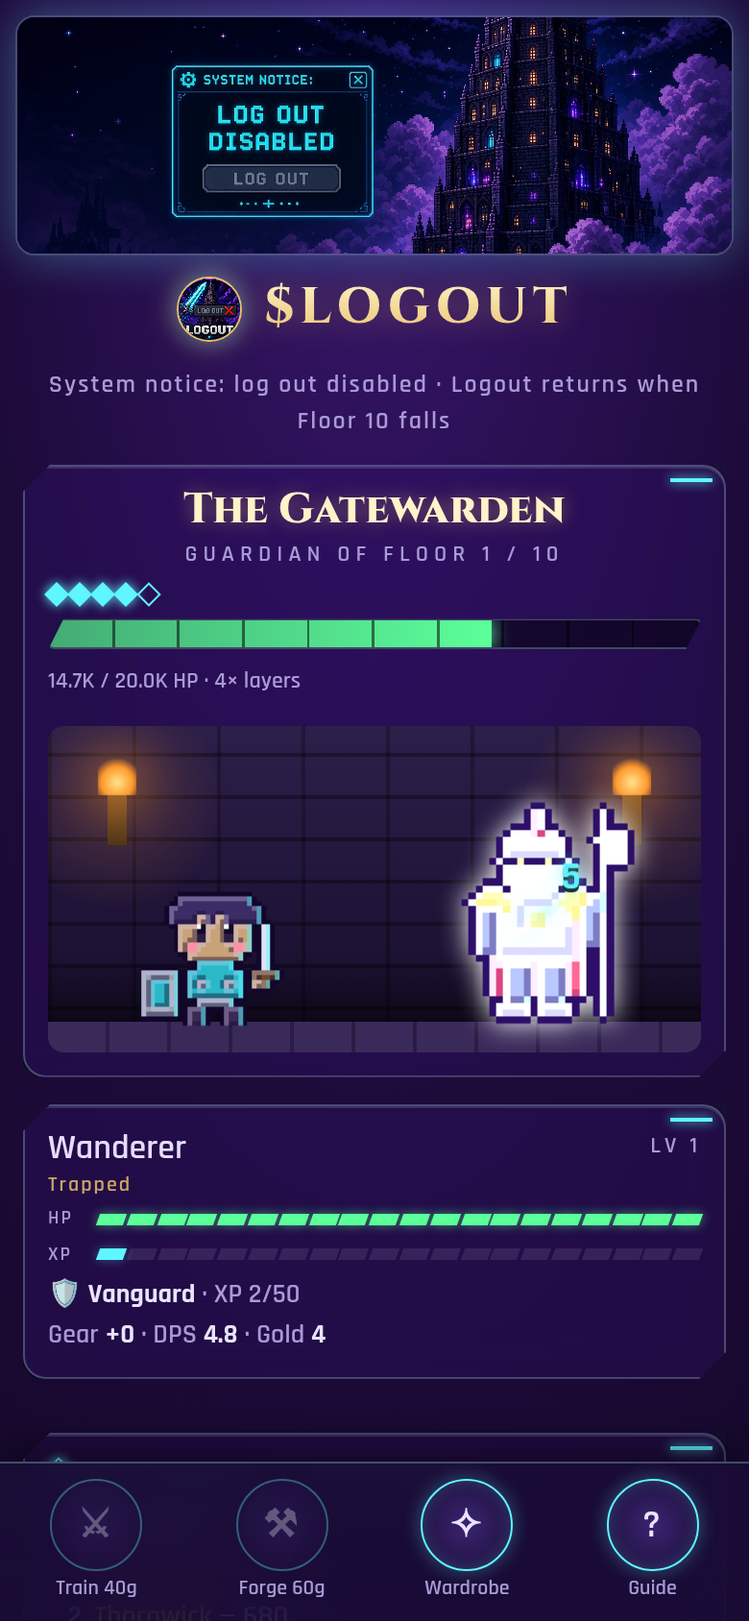
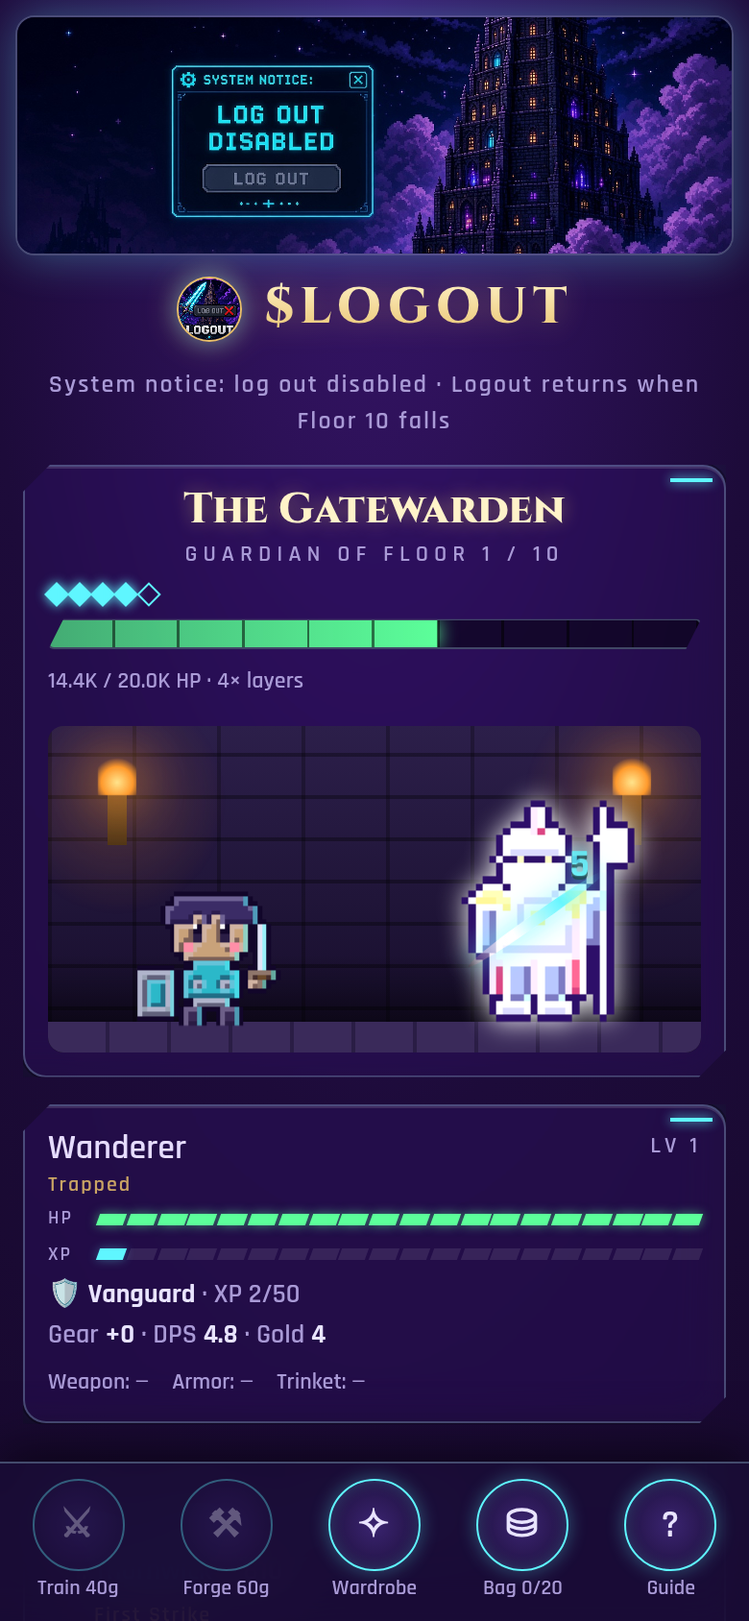
Loot: seeded boss drops (gear in 3 slots, 5 rarities, affixes, element tags), bag with compare/equip/salvage, 8 rare element cosmetics + aura slot, save v3

diff --git a/js/main.js b/js/main.js
@@ -1,13 +1,15 @@
-import { CLASSES, newHero, heroDps, levelCost, gearCost, computeProgress, accrue, applyXp, bossName, fmt, fmtDur, xpToNext } from './game.js';
+import { CLASSES, newHero, heroDps, levelCost, gearCost, computeProgress, accrue, applyXp, offlineCap, bossName, fmt, fmtDur, xpToNext } from './game.js';
 import { makeBackend } from './storage.js';
+import { grantDrops, equipItem, salvageItem, salvageValue, rarityOf, statLabel, INV_SIZE, GEAR_SLOTS } from './loot.js';
 import { OFFLINE_CAP_HOURS, MAX_FLOOR } from '../config.js';
 import { bossSprite, bossIsBig, heroSprite } from './sprites.js';
 import { SLOTS, CREATION_SLOTS, itemsFor, isUnlocked, unlockText, defaultLook, migrateSave, recordClear, equip, titleOf, nameColorOf, fakeProfile, byId, SAVE_VERSION } from './cosmetics.js';
 const $ = id => document.getElementById(id);
 const esc = s => String(s).replace(/[&<>"']/g, c => `&#${c.charCodeAt(0)};`);
+let lootLines = [];
 let be, save, floor, pending = 0, recent = { dmg: 0, gold: 0, xp: 0 }, quietSync = true, cls = 'Vanguard', draftLook = defaultLook('Vanguard'), toastT;
-const log = m => { const d = document.createElement('div'); d.textContent = m; if (m.startsWith('System notice')) d.className = 'rune'; $('log').prepend(d); };
-function notice(m) { const n = document.createElement('div'); n.className = 'notice'; n.innerHTML = `<small>◈ System notice</small>${esc(m)}`; $('notices').append(n); setTimeout(() => n.remove(), 3200); }
+const log = (m, color) => { const d = document.createElement('div'); d.textContent = m; if (m.startsWith('System notice')) d.className = 'rune'; if (color) { d.style.color = color; d.className = 'loot'; } $('log').prepend(d); };
+function notice(m, color) { const n = document.createElement('div'); n.className = 'notice'; if (color) n.style.borderColor = color; n.innerHTML = `<small>◈ System notice</small><span${color ? ` style="color:${color}"` : ''}>${esc(m)}</span>`; $('notices').append(n); setTimeout(() => n.remove(), 3200); }
 function floorCleared(f) { $('clearedSub').textContent = `${bossName(f)} has fallen`; const c = $('cleared'); c.classList.remove('show'); void c.offsetWidth; c.classList.add('show'); }
 const LAYERS = 5;
 const hpColor = pct => pct > 0.5 ? '#5cff9a' : pct > 0.2 ? '#ffd84f' : '#ff3355';
@@ -18,8 +20,8 @@ function hitFx(dmg, mine = true) {
   const s = document.createElement('i'); s.className = 'slash'; s.style.left = (x - 60) + 'px'; s.style.top = y + 'px';
   fx.append(d, s); setTimeout(() => { d.remove(); s.remove(); }, 1000);
 }
-const SLOT_LABEL = { skin: 'Skin', hairColor: 'Hair colour', hairStyle: 'Hair style', outfitColor: 'Outfit colour', outfitStyle: 'Outfit style', trim: 'Armor trim', weapon: 'Weapon', weaponColor: 'Weapon finish', title: 'Title', nameColor: 'Name colour' };
-const COLOR_SLOTS = ['skin', 'hairColor', 'outfitColor', 'trim', 'weaponColor', 'nameColor'];
+const SLOT_LABEL = { skin: 'Skin', hairColor: 'Hair colour', hairStyle: 'Hair style', outfitColor: 'Outfit colour', outfitStyle: 'Outfit style', trim: 'Armor trim', weapon: 'Weapon', weaponColor: 'Weapon finish', aura: 'Aura', title: 'Title', nameColor: 'Name colour' };
+const COLOR_SLOTS = ['skin', 'hairColor', 'outfitColor', 'trim', 'weaponColor', 'nameColor', 'aura'];
 const toast = m => notice(m.replace(/^System notice: /, ''));
 
 function picker(el, slots, look, heroCls, progress, onPick) {
@@ -34,11 +36,11 @@ async function boot() {
   $('maxf').textContent = MAX_FLOOR;
   be = await makeBackend(); save = migrateSave(await be.loadSave());
   if (!save) return showCreate();
-  const p = computeProgress(save.heroes, save.lastTick, Date.now(), OFFLINE_CAP_HOURS);
+  const cap = offlineCap(save.heroes, OFFLINE_CAP_HOURS), p = computeProgress(save.heroes, save.lastTick, Date.now(), cap);
   if (p.secs > 30) {
     save.gold += p.gold; const ups = applyXp(save.heroes, p.xp); const r = await be.submitDamage(save.heroes[0].name, p.damage);
-    const got = handleClears(r.clears, true);
-    $('awaytxt').innerHTML = `Log out disabled. You fought on for ${fmtDur(p.secs)}${p.capped ? ` (capped at ${OFFLINE_CAP_HOURS}h)` : ''}<br>Damage: ${fmt(p.damage)}<br>Gold: +${fmt(p.gold)}<br>XP: +${fmt(p.xp)}${ups.length ? `<br>Level ups: ${ups.length}` : ''}${r.advanced ? `<br>Floors cleared: ${r.advanced}. Floor ${r.floor} is open.` : ''}${got.length ? `<br>Cosmetics unlocked: ${got.map(i => esc(i.label)).join(', ')}` : ''}`;
+    lootLines = []; const got = handleClears(r.clears, true);
+    $('awaytxt').innerHTML = `Log out disabled. You fought on for ${fmtDur(p.secs)}${p.capped ? ` (capped at ${cap}h)` : ''}<br>Damage: ${fmt(p.damage)}<br>Gold: +${fmt(p.gold)}<br>XP: +${fmt(p.xp)}${ups.length ? `<br>Level ups: ${ups.length}` : ''}${r.advanced ? `<br>Floors cleared: ${r.advanced}. Floor ${r.floor} is open.` : ''}${got.length ? `<br>Cosmetics unlocked: ${got.map(i => esc(i.label)).join(', ')}` : ''}${lootLines.length ? `<br>Loot: ${lootLines.join(', ')}` : ''}`;
     $('away').showModal();
   }
   save.lastTick = Date.now(); await be.saveSave(save); startGame();
@@ -51,7 +53,7 @@ function showCreate() {
   picker($('cpick'), CREATION_SLOTS, draftLook, cls, { cleared: [], top3: [], rank1: 0 }, id => { draftLook[byId(id).type] = id; showCreate(); });
   $('start').onclick = async () => {
     const h = newHero($('hname').value.trim(), cls); h.look = { ...draftLook };
-    save = { version: SAVE_VERSION, heroes: [h], gold: 0, lastTick: Date.now(), progress: { cleared: [], top3: [], rank1: 0 } };
+    save = migrateSave({ version: 2, heroes: [h], gold: 0, lastTick: Date.now(), progress: { cleared: [], top3: [], rank1: 0 } }); // fills v3 fields
     await be.saveSave(save); $('create').classList.add('hidden'); startGame(true);
   };
 }
@@ -60,6 +62,10 @@ function handleClears(clears = [], quiet = false) {
   for (const c of clears) {
     const got = recordClear(save, c.floor, c.ranking.indexOf(me) + 1, c.maxHp ? (c.dmg?.[me] || 0) / c.maxHp : 1); all.push(...got);
     for (const it of got) { log(`System notice: cosmetic unlocked — ${it.label}.`); if (!quiet) notice(`Cosmetic unlocked — ${it.label}`); }
+    const share = c.maxHp ? (c.dmg?.[me] || 0) / c.maxHp : 0, d = grantDrops(save, c.floor, share);
+    for (const it of d.items) { const R = rarityOf(it.rarity); log(`Loot · ${R.label} ${it.name} (Floor ${c.floor})`, R.color); lootLines.push(`<span style="color:${R.color}">${esc(R.label)} ${esc(it.name)}</span>`); if (!quiet) notice(`${R.label} drop — ${it.name}`, R.color); }
+    if (d.salvaged) log(`Bag full: a drop was salvaged for ${fmt(d.salvaged)} gold.`);
+    if (d.cosmetic) { const it = byId(d.cosmetic); log(`System notice: rare cosmetic drop — ${it.label}!`, '#ffb02e'); lootLines.push(`<span style="color:#ffb02e">${esc(it.label)} (cosmetic)</span>`); all.push(it); if (!quiet) notice(`Rare cosmetic — ${it.label}`, '#ffb02e'); }
   }
   return all;
 }
@@ -75,7 +81,7 @@ async function startGame(fresh = false) {
   floor = await be.getFloor(); log(`${save.heroes[0].name} awoke on Floor ${floor.floor}. The guardian stirs.`); log('System notice: log out disabled.');
   if (fresh) { notice('Log out disabled'); setTimeout(() => notice(`Floor ${floor.floor} is open`), 900); } // no replayed notices on reload
   $('lvl').onclick = () => buy('level'); $('gear').onclick = () => buy('gear'); $('wardrobeBtn').onclick = openWardrobe;
-  $('helpBtn').onclick = () => tourShow(0); placeDock();
+  $('helpBtn').onclick = () => tourShow(0); $('bagBtn').onclick = openBag; placeDock();
   setInterval(tick, 1000); setInterval(sync, 5000); render(); renderLb();
   if (!save.tutorialSeen) setTimeout(startTour, fresh ? 1600 : 400);
 }
@@ -99,7 +105,7 @@ function buy(kind) {
 }
 function render() {
   const h = save.heroes[0];
-  $('hero').style.backgroundImage = heroSprite(h.look, h.cls); $('boss').style.backgroundImage = bossSprite(floor.floor); $('boss').classList.toggle('big', bossIsBig(floor.floor));
+  $('hero').style.backgroundImage = heroSprite(h.look, h.cls); const au = byId(h.look.aura || 'au-none')?.value; $('hero').style.filter = au ? `drop-shadow(0 0 1.5px ${au}) drop-shadow(0 0 3px ${au})` : ''; $('boss').style.backgroundImage = bossSprite(floor.floor); $('boss').classList.toggle('big', bossIsBig(floor.floor));
   const won = floor.floor >= MAX_FLOOR && floor.hp <= 0;
   $('bname').textContent = won ? 'Log out enabled' : bossName(floor.floor);
   $('floor').textContent = won ? 'System notice · the tower is silent' : `Guardian of Floor ${floor.floor} / ${MAX_FLOOR}`;
@@ -112,6 +118,8 @@ function render() {
   const xp = h.xp / xpToNext(h.level); $('hxp').innerHTML = Array.from({ length: 20 }, (_, i) => `<i class="${i / 20 < xp ? '' : 'off'}"></i>`).join('');
   $('stats').innerHTML = `${CLASSES[h.cls].icon} <b>${h.cls}</b> · XP ${h.xp}/${xpToNext(h.level)}<br>Gear <b>+${h.gear}</b> · DPS <b>${heroDps(h).toFixed(1)}</b> · Gold <b>${fmt(save.gold)}</b>`;
   $('lvlL').textContent = `Train ${fmt(levelCost(h))}g`; $('lvl').title = `Train: +1 level for ${fmt(levelCost(h))} gold`; $('lvl').disabled = save.gold < levelCost(h);
+  $('equipped').innerHTML = GEAR_SLOTS.map(s => { const it = h.equip?.[s]; return `<span class="eq" style="${it ? `color:${rarityOf(it.rarity).color}` : ''}">${s[0].toUpperCase() + s.slice(1)}: ${it ? esc(it.name) : '—'}</span>`; }).join('');
+  $('bagL').textContent = `Bag ${save.inv.length}/${INV_SIZE}`; $('gear').title = 'Forge: temper your weapon, +15% damage per tier';
   $('gearL').textContent = `Forge ${fmt(gearCost(h))}g`; $('gear').disabled = save.gold < gearCost(h);
 }
 async function renderLb() {
@@ -121,6 +129,28 @@ async function renderLb() {
     return `<li class="${me ? 'me' : ''}" value="${r.rank}"><span style="color:${pr.color}">${esc(r.name)}</span> — ${fmt(r.damage)}<br><span class="ttl">${esc(pr.title)}</span></li>`;
   }).join('');
 }
+// ---- Bag: inventory grid, compare panel, equip and salvage
+let bagSel = -1;
+const itemCard = (it, cls = '') => { const R = rarityOf(it.rarity); return `<div class="item ${cls}" style="--rc:${R.color}"><b style="color:${R.color}">${esc(it.name)}</b><small>${R.label} · ${it.slot} · Floor ${it.floor} · ${it.element}</small>${Object.entries(it.stats).map(([k, v]) => `<div>${statLabel(k, v)}</div>`).join('')}</div>`; };
+function openBag() {
+  const h = save.heroes[0];
+  $('bagCount').textContent = `· ${save.inv.length} / ${INV_SIZE}`;
+  $('eqrow').innerHTML = GEAR_SLOTS.map(s => { const it = h.equip[s]; return `<div class="eqslot" title="${s}">${it ? itemCard(it, 'mini') : `<div class="item mini empty">${s}: empty</div>`}</div>`; }).join('');
+  $('bagGrid').innerHTML = Array.from({ length: INV_SIZE }, (_, i) => { const it = save.inv[i]; if (!it) return '<button class="cell" disabled aria-label="empty slot"></button>';
+    const R = rarityOf(it.rarity); return `<button class="cell ${i === bagSel ? 'sel' : ''}" data-i="${i}" style="--rc:${R.color}" title="${esc(R.label + ' ' + it.name)}">${{ weapon: '⚔', armor: '⛨', trinket: '◈' }[it.slot]}</button>`; }).join('');
+  $('bagGrid').onclick = e => { const b = e.target.closest('button.cell[data-i]'); if (b) { bagSel = +b.dataset.i; openBag(); } };
+  const it = save.inv[bagSel];
+  if (it) {
+    const cur = h.equip[it.slot], before = heroDps(h), trial = { ...h, equip: { ...h.equip, [it.slot]: it } }, delta = heroDps(trial) - before;
+    $('bagDetail').innerHTML = `${itemCard(it)}<div class="vs">vs equipped</div>${cur ? itemCard(cur, 'mini') : '<div class="item mini empty">nothing equipped</div>'}
+      <p class="delta" style="color:${delta >= 0 ? '#5cff8a' : '#ff3355'}">DPS ${delta >= 0 ? '+' : ''}${delta.toFixed(1)} (${before.toFixed(1)} → ${(before + delta).toFixed(1)})</p>${['goldPct', 'xpPct', 'capH'].map(k => { const d = (it.stats[k] || 0) - (cur?.stats[k] || 0); return d ? `<div style="color:${d > 0 ? '#5cff8a' : '#ff3355'}">${k === 'capH' ? 'Offline cap' : k === 'goldPct' ? 'Gold' : 'XP'} ${d > 0 ? '+' : ''}${d}${k === 'capH' ? 'h' : '%'}</div>` : ''; }).join('')}
+      <div class="bagbtns"><button id="bEquip" class="cta">Equip</button><button id="bSalv">Salvage · ${fmt(salvageValue(it))}g</button></div>`;
+    $('bEquip').onclick = async () => { equipItem(save, bagSel); log(`Equipped ${it.name}.`, rarityOf(it.rarity).color); bagSel = -1; await be.saveSave(save); render(); openBag(); };
+    $('bSalv').onclick = async () => { const g = salvageItem(save, bagSel); log(`Salvaged ${it.name} for ${fmt(g)} gold.`); bagSel = -1; await be.saveSave(save); render(); openBag(); };
+  } else $('bagDetail').innerHTML = '<p class="sub">Select an item to compare it with what you have equipped.</p>';
+  if (!$('bag').open) $('bag').showModal();
+}
+
 // ---- intro walkthrough (System notice voice). Seen flag lives in the save; the ? button reopens it.
 const TOUR = [
   { t: 'You fight on your own', x: 'Your hero attacks the floor guardian automatically, every second, even while you are offline. Close the tab; the tower keeps count.', el: () => $('arena') },

diff --git a/js/loot.js b/js/loot.js
@@ -1,0 +1,66 @@
+// Loot: seeded, reproducible boss drops (stat gear + rare element cosmetics), inventory, equip and salvage. Pure (no DOM, no Math.random).
+import { rng, baseHp, isUniqueSlot, bossInfo } from './floors.js';
+import { DROP_COSMETICS } from './cosmetics.js';
+export const INV_SIZE = 20;
+export const GEAR_SLOTS = ['weapon', 'armor', 'trinket'];
+export const RARITIES = [
+  { id: 'common', label: 'Common', color: '#c9c2d8', w: 60, mul: 1, affixes: 0 },
+  { id: 'uncommon', label: 'Uncommon', color: '#5cff8a', w: 25, mul: 1.3, affixes: 1 },
+  { id: 'rare', label: 'Rare', color: '#4fa8ff', w: 10, mul: 1.7, affixes: 1 },
+  { id: 'epic', label: 'Epic', color: '#c26bff', w: 4, mul: 2.2, affixes: 2 },
+  { id: 'legendary', label: 'Legendary', color: '#ffb02e', w: 1, mul: 3, affixes: 2 },
+];
+export const rarityOf = id => RARITIES.find(r => r.id === id);
+/** Rarity weights; unique/milestone floors double every non-common weight. */
+export const rarityWeights = floor => RARITIES.map((r, i) => r.w * (i > 0 && isUniqueSlot(floor) ? 2 : 1));
+export const COSMETIC_CHANCE = { normal: 0.03, unique: 0.05 };
+/** Chance of a gear drop for one kill, by damage share (0 share = no loot). */
+export const gearChance = (share, floor) => share <= 0 ? 0 : Math.min(1, 0.3 + share * 5 + (isUniqueSlot(floor) ? 0.3 : 0));
+const scale = f => Math.pow(baseHp(f) / baseHp(1), 0.6); // gear power grows slower than boss HP
+const ELEMENT_WORD = { fire: 'Ember', frost: 'Frost', void: 'Void', storm: 'Storm', venom: 'Venom', holy: 'Hallowed', blood: 'Blood', shadow: 'Shadow' };
+const NOUNS = { weapon: ['Blade', 'Edge', 'Glaive', 'Fang', 'Brand'], armor: ['Mail', 'Aegis', 'Cuirass', 'Mantle', 'Plate'], trinket: ['Charm', 'Sigil', 'Locket', 'Talisman', 'Band'] };
+const AFFIXES = [
+  { k: 'dpsPct', label: v => `+${v}% DPS`, roll: (r, m) => Math.round((2 + r() * 4) * m) },
+  { k: 'goldPct', label: v => `+${v}% gold`, roll: (r, m) => Math.round((3 + r() * 5) * m) },
+  { k: 'xpPct', label: v => `+${v}% XP`, roll: (r, m) => Math.round((3 + r() * 5) * m) },
+  { k: 'capH', label: v => `+${v}h offline cap`, roll: (r, m) => Math.max(1, Math.round((0.5 + r()) * m)) },
+];
+export const statLabel = (k, v) => ({ dps: `+${v} DPS`, dpsPct: `+${v}% DPS`, goldPct: `+${v}% gold`, xpPct: `+${v}% XP`, capH: `+${v}h offline cap` })[k];
+const weighted = (r, ws) => { let x = r() * ws.reduce((a, b) => a + b, 0); for (let i = 0; i < ws.length; i++) if ((x -= ws[i]) < 0) return i; return ws.length - 1; };
+/** Roll one gear piece from a seeded rng. */
+export function rollItem(r, floor, element, seq = 0) {
+  const ri = weighted(r, rarityWeights(floor)), R = RARITIES[ri], slot = GEAR_SLOTS[Math.floor(r() * 3)], s = scale(floor);
+  const stats = {};
+  if (slot === 'weapon') stats.dps = +(1.5 * s * R.mul).toFixed(1);
+  if (slot === 'armor') stats.dpsPct = Math.round((3 + floor / 8) * R.mul);
+  if (slot === 'trinket') { stats.goldPct = Math.round((3 + floor / 12) * R.mul); stats.xpPct = stats.goldPct; }
+  const pool = AFFIXES.map(a => a.k), picked = [];
+  for (let i = 0; i < R.affixes; i++) { const k = pool.splice(Math.floor(r() * pool.length), 1)[0], a = AFFIXES.find(x => x.k === k), v = a.roll(r, R.mul); stats[k] = (stats[k] || 0) + v; picked.push(k); }
+  const name = `${ELEMENT_WORD[element] || 'Tower'} ${pick(r, NOUNS[slot])}`;
+  return { id: `i${floor}-${seq}-${ri}${slot[0]}`, slot, rarity: R.id, floor, element, name, stats, affixes: picked };
+}
+const pick = (r, a) => a[Math.floor(r() * a.length)];
+const hash = s => { let h = 2166136261; for (const c of String(s)) h = Math.imul(h ^ c.charCodeAt(0), 16777619); return h >>> 0; };
+/** Seeded drops for one boss kill. Same (heroId, floor, seq, share) always gives the same result. */
+export function rollDrops({ heroId = 'hero', floor, share, seq = 0, owned = [] }) {
+  const r = rng(hash(`${heroId}|${floor}|${seq}`)), element = bossInfo(floor).lootElement, uniq = isUniqueSlot(floor), items = [];
+  const rolls = uniq ? 2 : 1;
+  for (let i = 0; i < rolls; i++) if (r() < gearChance(share, floor)) items.push(rollItem(r, floor, element, `${seq}.${i}`));
+  let cosmetic = null;
+  if (share > 0 && r() < (uniq ? COSMETIC_CHANCE.unique : COSMETIC_CHANCE.normal)) { const c = DROP_COSMETICS.find(x => x.unlock.drop === element); if (c && !owned.includes(c.id)) cosmetic = c.id; }
+  return { items, cosmetic, element };
+}
+export const salvageValue = it => Math.round(20 * Math.pow(RARITIES.findIndex(r => r.id === it.rarity) + 1, 2) * scale(it.floor));
+/** Apply one kill's drops to a v3 save. Returns { items, cosmetic, salvaged } (salvaged = auto-salvaged gold when the bag is full). */
+export function grantDrops(save, floor, share) {
+  const h = save.heroes[0], d = rollDrops({ heroId: h.id, floor, share, seq: save.lootSeq++, owned: save.progress.drops });
+  let salvaged = 0;
+  for (const it of d.items) { if (save.inv.length < INV_SIZE) save.inv.push(it); else { const g = salvageValue(it); save.gold += g; salvaged += g; } }
+  if (d.cosmetic) save.progress.drops.push(d.cosmetic);
+  return { ...d, salvaged };
+}
+export function equipItem(save, invIndex) {
+  const h = save.heroes[0], it = save.inv[invIndex]; if (!it) return false;
+  const old = h.equip[it.slot]; h.equip[it.slot] = it; save.inv.splice(invIndex, 1); if (old) save.inv.push(old); return true;
+}
+export function salvageItem(save, invIndex) { const it = save.inv[invIndex]; if (!it) return 0; save.inv.splice(invIndex, 1); const g = salvageValue(it); save.gold += g; return g; }

diff --git a/js/cosmetics.js b/js/cosmetics.js
@@ -1,5 +1,5 @@
 // Cosmetics: catalog, unlock rules, save migration, layered sprite grids. Pure (no DOM). No stat effects.
-export const SAVE_VERSION = 2;
+export const SAVE_VERSION = 3;
 const I = (id, type, label, value, unlock = null, extra = {}) => ({ id, type, label, value, unlock, ...extra });
 export const CATALOG = [
   // skin tones
@@ -35,8 +35,16 @@ export const CATALOG = [
   I('nc-white', 'nameColor', 'Plain', '#e6dcff'), I('nc-cyan', 'nameColor', 'Cyan', '#3ff7ff'),
   I('nc-gold', 'nameColor', 'Choir Gold', '#ffd84f', { floor: 8 }), I('nc-exit', 'nameColor', 'Exit Green', '#5cff8a', { floor: 10 }),
   I('nc-pink', 'nameColor', 'Blood Pink', '#ff4fd8', { top3: 3 }),
+  // aura (rendered as a soft glow around the hero)
+  I('au-none', 'aura', 'None', ''),
+  // rare element-themed boss drops (2-5%)
+  I('oc-ember', 'outfitColor', 'Ember Weave', '#e0502a', { drop: 'fire' }), I('au-frost', 'aura', 'Frost Aura', '#9fd8ff', { drop: 'frost' }),
+  I('wc-voidshard', 'weaponColor', 'Voidshard', '#b06cff', { drop: 'void' }), I('hc-storm', 'hairColor', 'Stormlit', '#cfe0ff', { drop: 'storm' }),
+  I('tr-venom', 'trim', 'Venom Gilt', '#8ae04a', { drop: 'venom' }), I('au-holy', 'aura', 'Hallowed Aura', '#fff3a0', { drop: 'holy' }),
+  I('au-blood', 'aura', 'Blood Aura', '#ff3355', { drop: 'blood' }), I('nc-shadow', 'nameColor', 'Shadowglass', '#a8a0c8', { drop: 'shadow' }),
 ];
-export const SLOTS = ['skin', 'hairColor', 'hairStyle', 'outfitColor', 'outfitStyle', 'trim', 'weapon', 'weaponColor', 'title', 'nameColor'];
+export const DROP_COSMETICS = CATALOG.filter(i => i.unlock?.drop);
+export const SLOTS = ['skin', 'hairColor', 'hairStyle', 'outfitColor', 'outfitStyle', 'trim', 'weapon', 'weaponColor', 'aura', 'title', 'nameColor'];
 export const CREATION_SLOTS = ['skin', 'hairColor', 'hairStyle', 'outfitColor'];
 export const byId = id => CATALOG.find(i => i.id === id);
 export const itemsFor = (slot, cls) => CATALOG.filter(i => i.type === slot && (!i.cls || i.cls === cls));
@@ -45,12 +53,14 @@ export function unlockText(u) {
   if (u.floor) return `Clear Floor ${u.floor}`;
   if (u.top3) return u.top3 === 1 ? 'Top-3 damage on a floor kill' : `Top-3 damage on ${u.top3} floor kills`;
   if (u.rank1) return '#1 damage on a floor kill';
+  if (u.drop) return `Rare drop from ${u.drop} bosses`;
 }
 export function isUnlocked(item, progress) {
   const u = item.unlock; if (!u) return true;
   if (u.floor) return progress.cleared.includes(u.floor);
   if (u.top3) return progress.top3.length >= u.top3;
   if (u.rank1) return progress.rank1 >= u.rank1;
+  if (u.drop) return (progress.drops || []).includes(item.id);
   return false;
 }
 export const unlockedIds = progress => CATALOG.filter(i => isUnlocked(i, progress)).map(i => i.id);
@@ -66,7 +76,7 @@ export function recordClear(save, floor, rank, share = 1) {
 }
 export function defaultLook(cls) {
   const w = itemsFor('weapon', cls)[0].id;
-  return { skin: 'skin-2', hairColor: 'hc-ink', hairStyle: 'hs-short', outfitColor: 'oc-cyan', outfitStyle: 'os-tunic', trim: 'tr-steel', weapon: w, weaponColor: 'wc-steel', title: 't-trapped', nameColor: 'nc-white' };
+  return { skin: 'skin-2', hairColor: 'hc-ink', hairStyle: 'hs-short', outfitColor: 'oc-cyan', outfitStyle: 'os-tunic', trim: 'tr-steel', weapon: w, weaponColor: 'wc-steel', title: 't-trapped', nameColor: 'nc-white', aura: 'au-none' };
 }
 /** Choose an item if unlocked & valid for the class; returns true on success. */
 export function equip(save, id) {
@@ -80,6 +90,11 @@ export function migrateSave(s) {
     s.heroes.forEach(h => { h.look = { ...defaultLook(h.cls), ...(h.look || {}) }; });
     s.progress = s.progress || { cleared: [], top3: [], rank1: 0 };
     s.version = 2;
+  }
+  if (s.version < 3) { // v3: loot inventory, equipped gear, drop cosmetics, aura slot
+    s.inv = s.inv || []; s.lootSeq = s.lootSeq || 0; s.progress.drops = s.progress.drops || [];
+    s.heroes.forEach(h => { h.equip = h.equip || { weapon: null, armor: null, trinket: null }; h.look.aura = h.look.aura || 'au-none'; });
+    s.version = 3;
   }
   return s;
 }

diff --git a/index.html b/index.html
@@ -21,8 +21,8 @@
    <div id="arena"><div class="torch l"></div><div class="torch r"></div><div id="hero" class="sprite"></div><div id="boss" class="sprite boss"></div><div id="fx"></div></div>
   </div>
   <div class="row">
-   <div class="panel win"><div class="hudtop"><div id="hname2"></div><div class="lv" id="hlv"></div></div><div class="segrow"><span>HP</span><div class="seg" id="hhp"></div></div><div class="segrow"><span>XP</span><div class="seg xp" id="hxp"></div></div><div id="stats"></div>
-    <nav class="btns" id="dock" aria-label="Actions"><div class="act"><button id="lvl" class="rb" title="Train" aria-label="Train">⚔</button><span id="lvlL">Train</span></div><div class="act"><button id="gear" class="rb" title="Forge" aria-label="Forge">⚒</button><span id="gearL">Forge</span></div><div class="act"><button id="wardrobeBtn" class="rb" title="Wardrobe" aria-label="Wardrobe">✧</button><span>Wardrobe</span></div><div class="act"><button id="helpBtn" class="rb" title="How to play" aria-label="How to play">?</button><span>Guide</span></div></nav></div>
+   <div class="panel win"><div class="hudtop"><div id="hname2"></div><div class="lv" id="hlv"></div></div><div class="segrow"><span>HP</span><div class="seg" id="hhp"></div></div><div class="segrow"><span>XP</span><div class="seg xp" id="hxp"></div></div><div id="stats"></div><div id="equipped" class="equipped"></div>
+    <nav class="btns" id="dock" aria-label="Actions"><div class="act"><button id="lvl" class="rb" title="Train" aria-label="Train">⚔</button><span id="lvlL">Train</span></div><div class="act"><button id="gear" class="rb" title="Forge" aria-label="Forge">⚒</button><span id="gearL">Forge</span></div><div class="act"><button id="wardrobeBtn" class="rb" title="Wardrobe" aria-label="Wardrobe">✧</button><span>Wardrobe</span></div><div class="act"><button id="bagBtn" class="rb" title="Bag" aria-label="Bag">⛁</button><span id="bagL">Bag</span></div><div class="act"><button id="helpBtn" class="rb" title="How to play" aria-label="How to play">?</button><span>Guide</span></div></nav></div>
    <div class="panel win"><h2>Top Damage · this floor</h2><ol id="lb"></ol></div>
   </div>
   <div class="panel win"><h2>Chronicle</h2><div class="log" id="log"></div></div>
@@ -30,6 +30,7 @@
 </main>
 <dialog id="wardrobe" class="win"><h2>Wardrobe <small>· cosmetic only</small></h2><div class="wrow"><div><div id="wpreview" class="preview big"></div><div id="wname"></div></div><div id="wpick"></div></div><button onclick="this.closest('dialog').close()">Close</button></dialog>
 <div id="tour" class="win hidden" role="dialog" aria-live="polite"><small class="tstep" id="tstep"></small><h3 id="ttitle"></h3><p id="ttext"></p><div class="tbtns"><button id="tskip">Skip</button><span></span><button id="tback">Back</button><button id="tnext" class="cta">Next</button></div></div>
+<dialog id="bag" class="win"><h2>Bag <small id="bagCount"></small></h2><div class="bagwrap"><div><div class="eqrow" id="eqrow"></div><div class="grid" id="bagGrid"></div></div><div class="detail" id="bagDetail"><p class="sub">Select an item to compare it with what you have equipped.</p></div></div><button onclick="this.closest('dialog').close()">Close</button></dialog>
 <div id="notices"></div><div id="cleared"><span>FLOOR CLEARED</span><small id="clearedSub"></small></div>
 <dialog id="away" class="win"><h2>System notice · while you were away</h2><div id="awaytxt"></div><button onclick="this.closest('dialog').close()">Resume</button></dialog>
 <script type="module" src="js/main.js"></script></body></html>

diff --git a/js/game.js b/js/game.js
@@ -11,7 +11,16 @@ export function newHero(name, cls) {
   if (!CLASSES[cls]) throw new Error('bad class');
   return { id: Math.random().toString(36).slice(2, 10), name: String(name).slice(0, 20) || 'Nameless', cls, level: 1, xp: 0, gear: 0 };
 }
-export const heroDps = h => { const c = CLASSES[h.cls]; return +(c.atk * c.spd * (1 + 0.25 * (h.level - 1)) * (1 + 0.15 * h.gear)).toFixed(3); };
+/** Summed stats of equipped loot: { dps (flat), dpsPct, goldPct, xpPct, capH }. */
+export function gearBonus(h) {
+  const b = { dps: 0, dpsPct: 0, goldPct: 0, xpPct: 0, capH: 0 };
+  for (const it of Object.values(h?.equip || {})) if (it) for (const [k, v] of Object.entries(it.stats || {})) b[k] = (b[k] || 0) + v;
+  return b;
+}
+// Forge (h.gear) tempers the hero's weapon: +15% per tier. Equipped loot adds flat weapon DPS and % bonuses.
+export const heroDps = h => { const c = CLASSES[h.cls], g = gearBonus(h); return +((c.atk * c.spd * (1 + 0.25 * (h.level - 1)) + g.dps) * (1 + 0.15 * h.gear) * (1 + g.dpsPct / 100)).toFixed(3); };
+const goldMul = heroes => 1 + gearBonus(heroes[0]).goldPct / 100, xpMul = heroes => 1 + gearBonus(heroes[0]).xpPct / 100;
+export const offlineCap = (heroes, base = 12) => base + gearBonus(heroes[0]).capH;
 export const xpToNext = lvl => Math.round(50 * Math.pow(1.4, lvl - 1));
 export const levelCost = h => Math.round(40 * Math.pow(1.5, h.level - 1));
 export const gearCost = h => Math.round(60 * Math.pow(1.6, h.gear));
@@ -23,15 +32,15 @@ export function computeProgress(heroes, lastTick, now, capHours = 12) {
   const secs = Math.min(raw, capHours * 3600);
   const dps = totalDps(heroes);
   const damage = Math.floor(dps * secs);
-  return { secs, capped: raw > secs, damage, gold: Math.floor(damage * 0.1), xp: Math.floor(damage * 0.05) };
+  return { secs, capped: raw > secs, damage, gold: Math.floor(damage * 0.1 * goldMul(heroes)), xp: Math.floor(damage * 0.05 * xpMul(heroes)) };
 }
 /** Live accrual with fractional carry (fixes per-tick flooring that kept low-DPS heroes at 0 gold/XP). Mutates save.lastTick/save.carry. */
 export function accrue(save, now, capHours = 12) {
   const raw = Math.max(0, (now - save.lastTick) / 1000), secs = Math.min(raw, capHours * 3600);
   const c = save.carry || (save.carry = { dmg: 0, gold: 0, xp: 0 });
   const d = totalDps(save.heroes) * secs + c.dmg, damage = Math.floor(d); c.dmg = d - damage;
-  const g = damage * 0.1 + c.gold, gold = Math.floor(g); c.gold = g - gold;
-  const x = damage * 0.05 + c.xp, xp = Math.floor(x); c.xp = x - xp;
+  const g = damage * 0.1 * goldMul(save.heroes) + c.gold, gold = Math.floor(g); c.gold = g - gold;
+  const x = damage * 0.05 * xpMul(save.heroes) + c.xp, xp = Math.floor(x); c.xp = x - xp;
   save.lastTick = now;
   return { secs, capped: raw > secs, damage, gold, xp };
 }

diff --git a/js/floors.js b/js/floors.js
@@ -16,10 +16,12 @@ const HP0 = 20000, R = Math.log(1.6), SOFT = 10;
 export const baseHp = f => Math.round(HP0 * Math.exp(R * SOFT * Math.log(1 + (f - 1) / SOFT)) / 100) * 100;
 export const floorBossHp = f => Math.round(baseHp(f) * (isMilestone(f) ? 2.5 : 1));
 // ---- seeded RNG
-function rng(seed) { let a = (seed * 2654435761 ^ 0x5eed1337) >>> 0; return () => { a = (a + 0x6d2b79f5) >>> 0; let t = a; t = Math.imul(t ^ (t >>> 15), t | 1); t ^= t + Math.imul(t ^ (t >>> 7), t | 61); return ((t ^ (t >>> 14)) >>> 0) / 4294967296; }; }
+export function rng(seed) { let a = (seed * 2654435761 ^ 0x5eed1337) >>> 0; return () => { a = (a + 0x6d2b79f5) >>> 0; let t = a; t = Math.imul(t ^ (t >>> 15), t | 1); t ^= t + Math.imul(t ^ (t >>> 7), t | 61); return ((t ^ (t >>> 14)) >>> 0) / 4294967296; }; }
 const pick = (r, arr) => arr[Math.floor(r() * arr.length)];
 const GEN_BASES = Object.keys(SHAPES), GEN_ELEMENTS = Object.keys(ELEMENTS);
 const plan = [];
+// Loot element for the hand-made bosses (generated bosses use their own element).
+const NATIVE_ELEMENT = { knight: 'holy', hydra: 'fire', boneking: 'shadow', seraph: 'fire', lich: 'venom', choir: 'storm', golem: 'frost', wyrm: 'storm', dryad: 'venom', dreadknight: 'void' };
 function fixedInfo(f, s) {
   const b = BOSSES[s.idx];
   return { floor: f, kind: s.kind, placeholder_unique: s.kind === 'placeholder_unique', base: b.key, element: 'native', addons: [], name: b.name, big: !!b.big };
@@ -42,7 +44,7 @@ function makeInfo(f) {
     while (addons.length < count) { const a = pick(r, allowed.filter(x => !addons.includes(x))); addons.push(a); }
     info = { floor: f, kind: 'generated', placeholder_unique: false, base, element, addons, name: `${ADDONS[addons[0]]} ${ELEMENTS[element].adj} ${SHAPES[base].noun}`, big: !!SHAPES[base].big };
   }
-  return { ...info, title: `Guardian of Floor ${f}`, hp: floorBossHp(f), milestone: isMilestone(f) };
+  return { ...info, lootElement: info.element === 'native' ? NATIVE_ELEMENT[info.base] : info.element, title: `Guardian of Floor ${f}`, hp: floorBossHp(f), milestone: isMilestone(f) };
 }
 export const bossName = f => bossInfo(f).name;
 export const bossIsBig = f => bossInfo(f).big;

diff --git a/style.css b/style.css
@@ -102,3 +102,17 @@ header{padding-top:max(14px,env(safe-area-inset-top))}main{padding-left:max(12px
  #tour{bottom:calc(92px + env(safe-area-inset-bottom))}
  .notice{min-width:0;width:calc(100vw - 40px)}.tower{display:none}
 }
+
+/* loot */
+.equipped{display:flex;flex-wrap:wrap;gap:4px 12px;font-size:12px;color:var(--mut);margin-top:6px}
+.log div.loot::before{content:'◆ ';color:inherit}
+#bag{max-width:760px;width:95vw;max-height:90vh;overflow:auto}.bagwrap{display:flex;gap:14px;flex-wrap:wrap}.bagwrap>div:first-child{flex:1;min-width:260px}
+.grid{display:grid;grid-template-columns:repeat(5,1fr);gap:6px;margin-top:8px}
+.cell{aspect-ratio:1;min-height:44px;margin:0;padding:0;font-size:20px;border:1px solid var(--rc,var(--line));box-shadow:inset 0 0 12px color-mix(in srgb,var(--rc,#000) 35%,transparent);color:var(--rc,var(--mut))}
+.cell:disabled{opacity:.25}.cell.sel{outline:2px solid #fff;outline-offset:1px}
+.eqrow{display:grid;grid-template-columns:repeat(3,1fr);gap:6px}
+.item{border:1px solid var(--rc,var(--line));border-radius:8px;padding:8px;background:rgba(10,4,24,.5);font-size:13px}.item small{display:block;color:var(--mut);font-size:11px;text-transform:capitalize;margin-bottom:3px}
+.item.mini{font-size:11px;padding:6px}.item.mini small{font-size:10px}.item.empty{color:var(--mut);text-transform:capitalize}
+.detail{flex:1;min-width:240px}.vs{text-align:center;font-size:11px;letter-spacing:3px;color:var(--mut);margin:6px 0;text-transform:uppercase}.delta{font-size:16px;margin:8px 0}
+.bagbtns{display:flex;gap:6px}.bagbtns button{flex:1;min-height:44px}
+@media(max-width:640px){#bag{width:calc(100vw - 16px)}.bagwrap{flex-direction:column}.eqrow{grid-template-columns:1fr}#bag>button{position:sticky;bottom:0;width:100%;background:rgba(30,15,65,.95)}}
